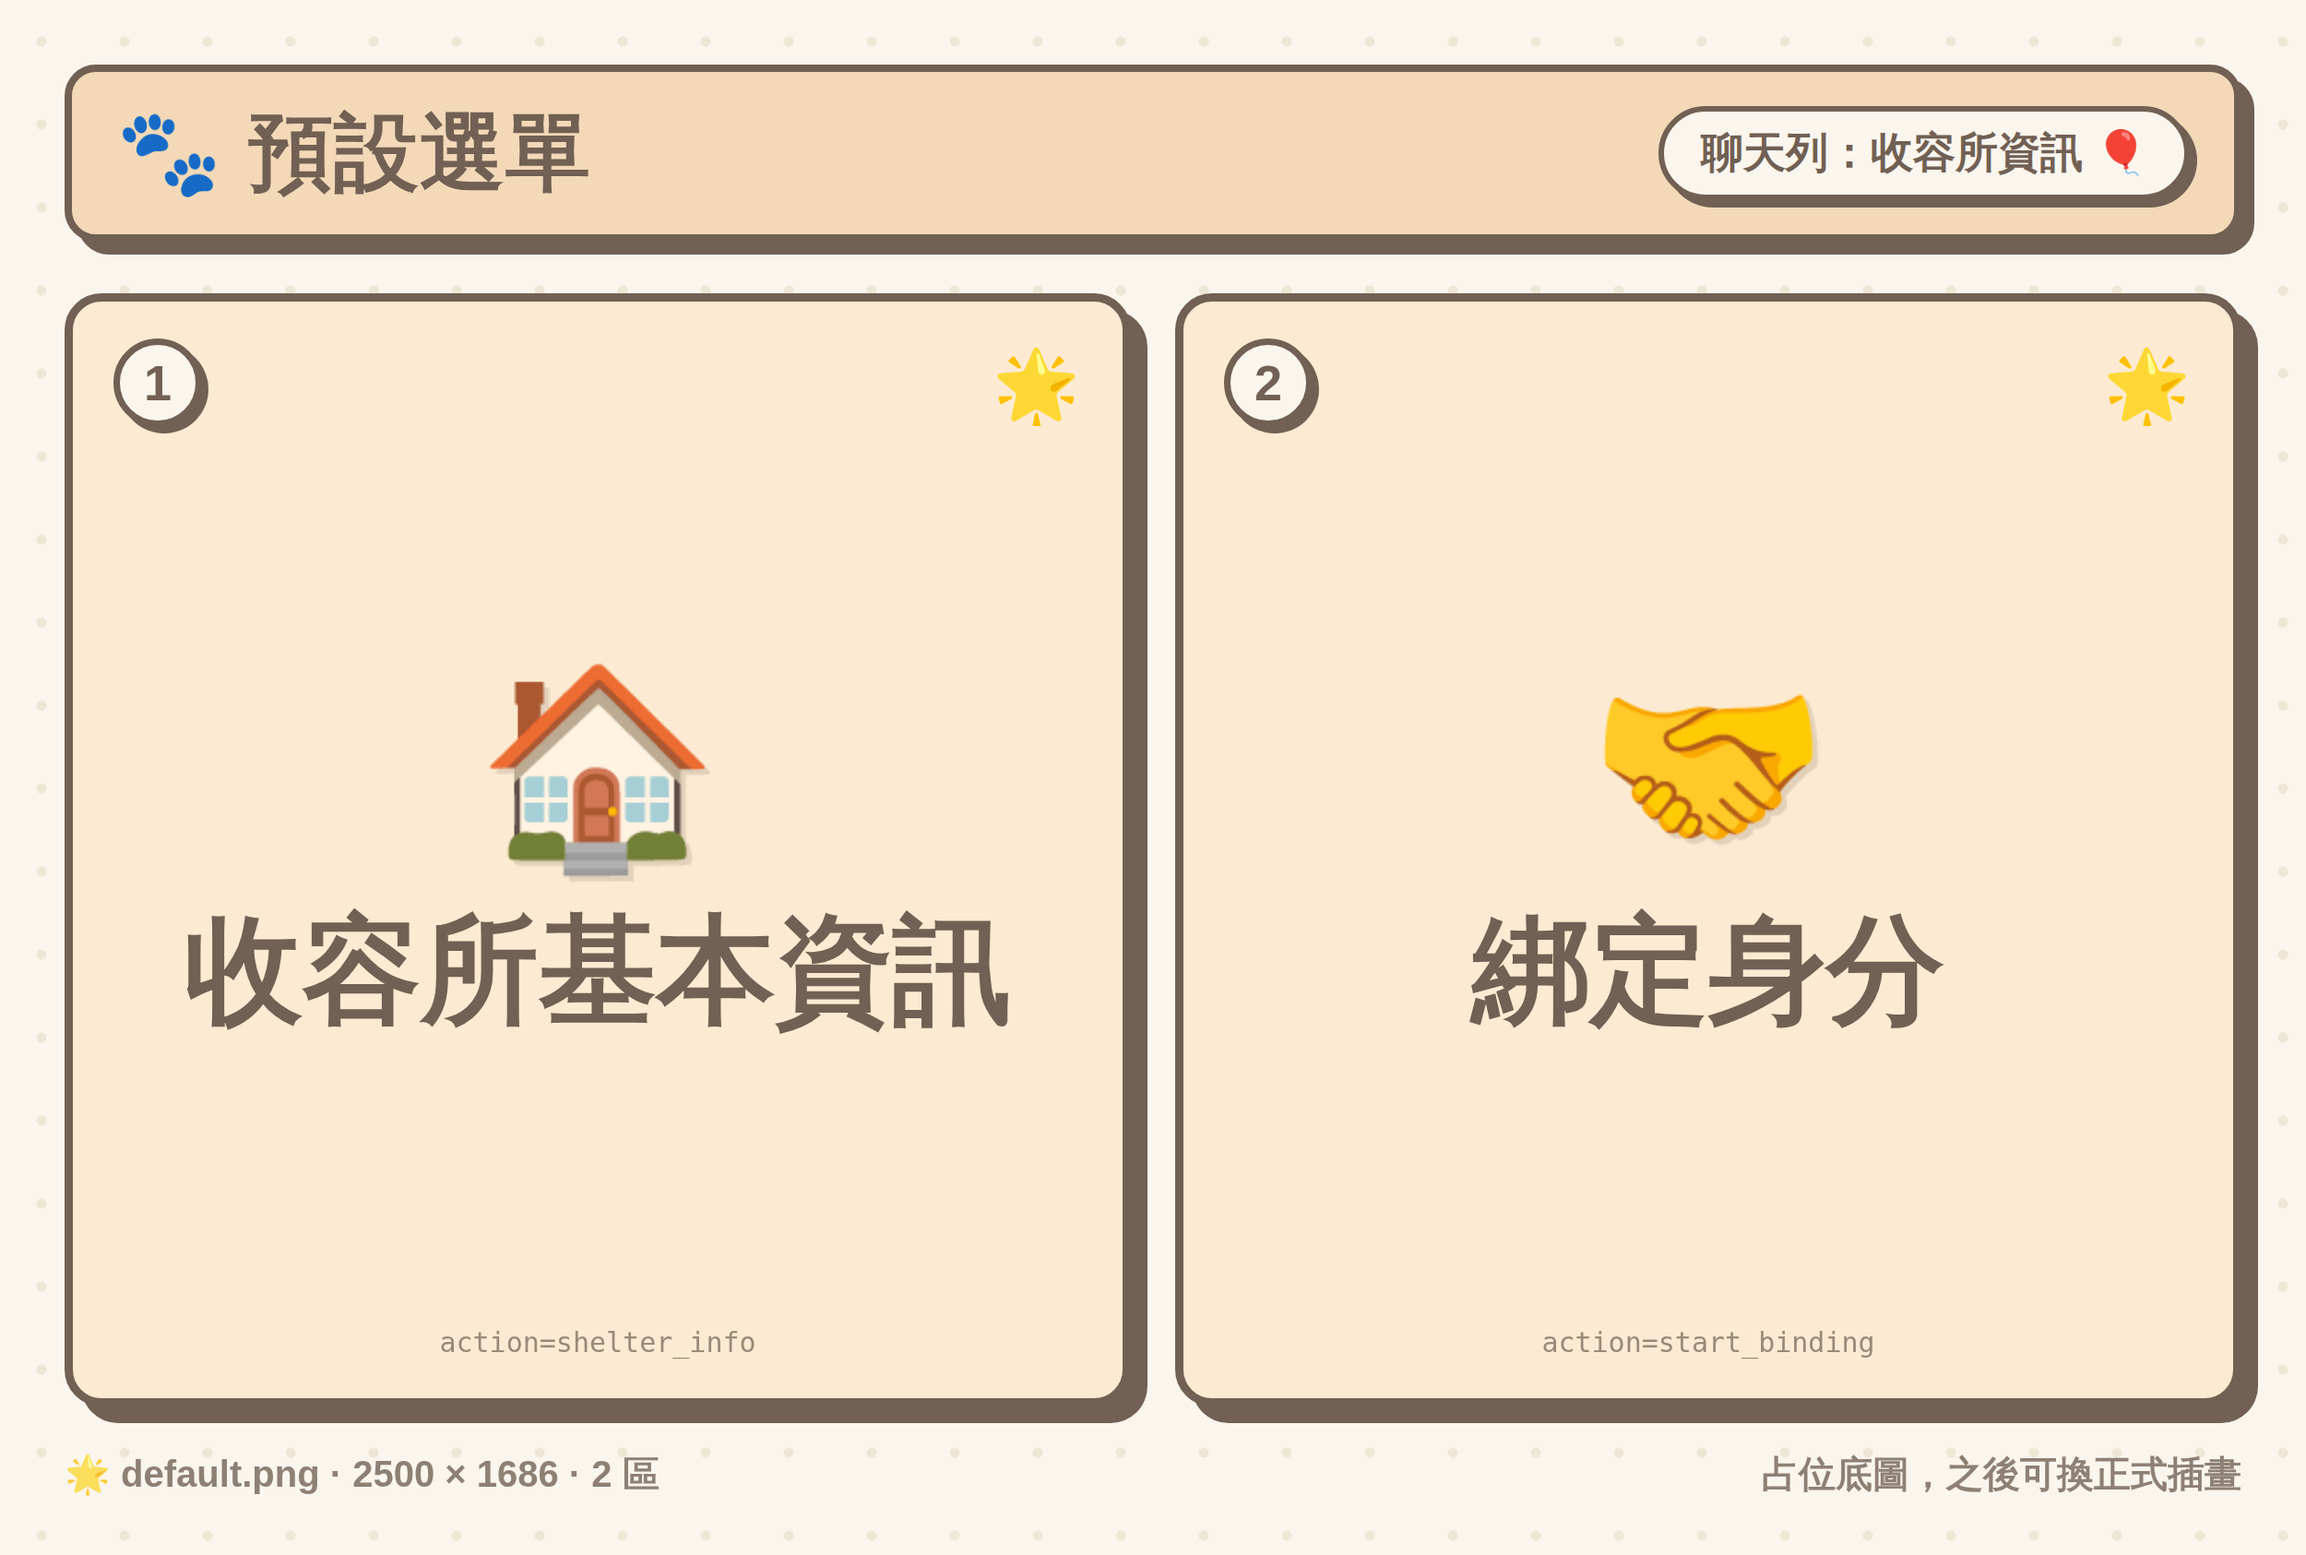
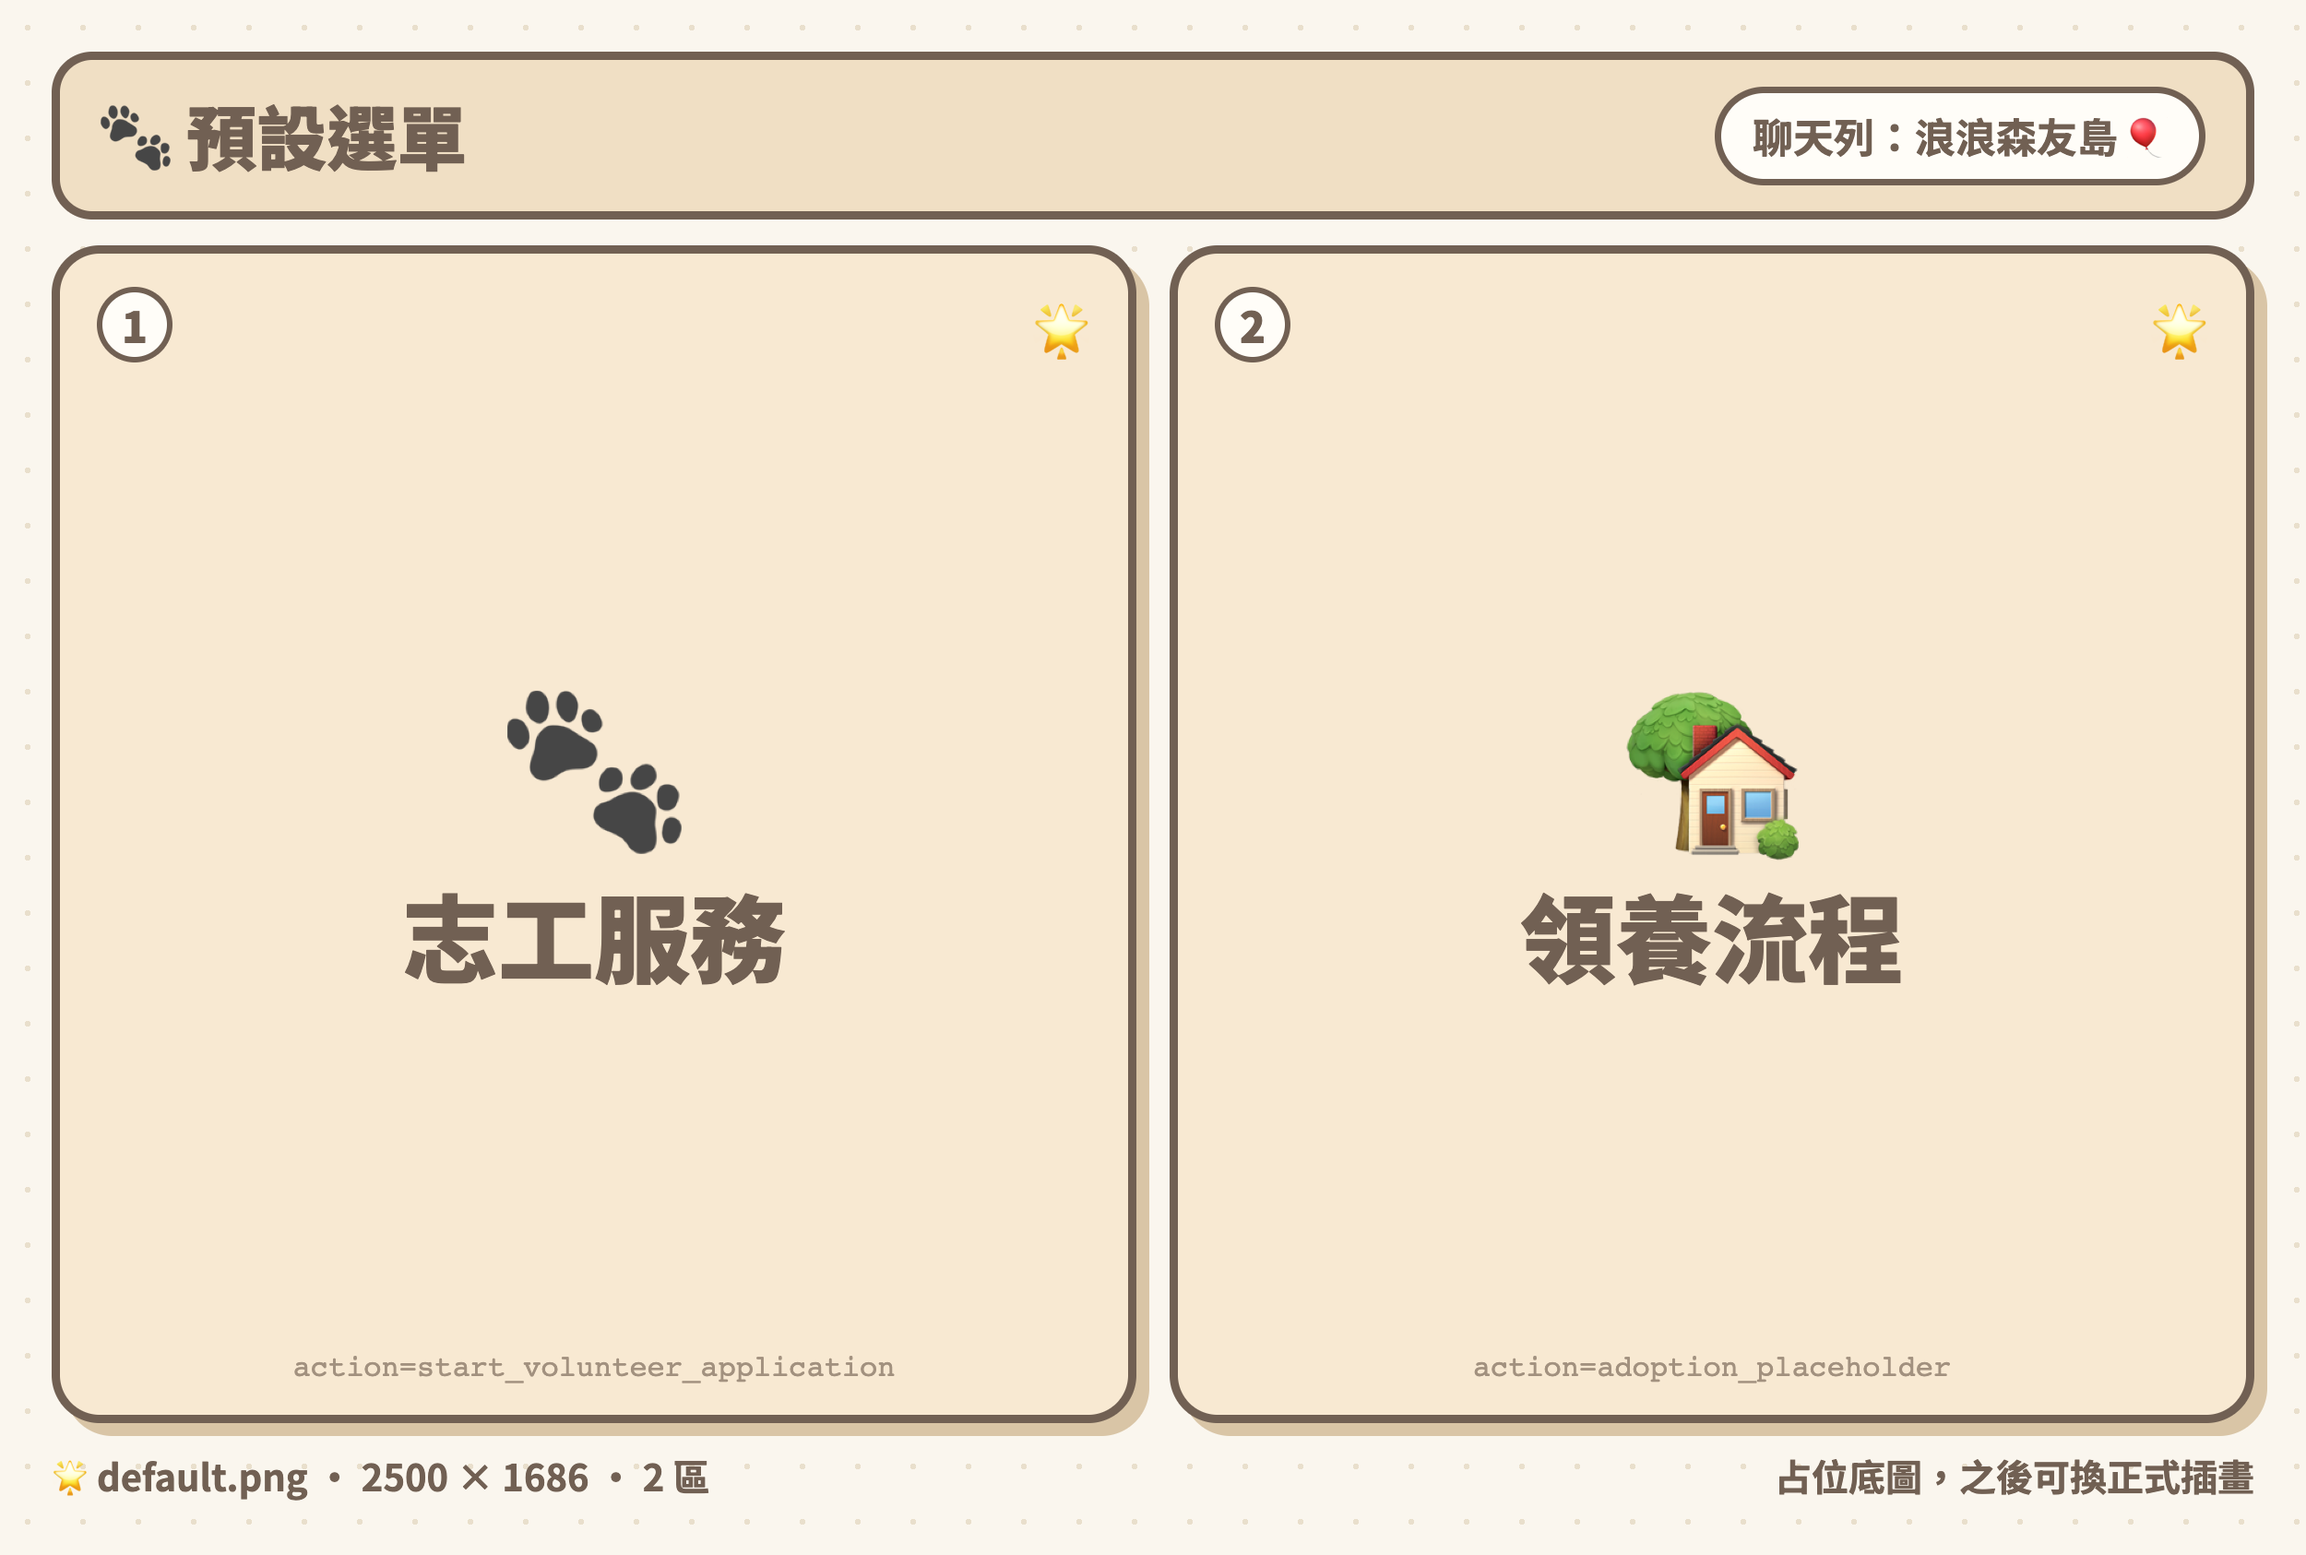
feat(line): 預設選單改為志工服務／領養流程兩條入口
一進官方帳號就分流，不再需要先「綁定身分」再做事：

- 志工服務 → action=start_volunteer_application
  沿用既有處理，回覆志工報名 LIFF 連結。綁定在報名時由
  volunteer_access_service 隱含建立（get_or_create_line_applicant），
  使用者無感。
- 領養流程 → action=adoption_placeholder
  沿用既有占位回覆，內容待實作。

兩個 action 都已由 _handle_public_volunteer_application_entry 處理，
不需要新增後端邏輯。舊的 shelter_info / start_binding 處理保留，
讓還停在舊選單的使用者不會掉進照護回報流程。

新增 scripts/rich_menu_images/render.mjs：底圖產生工具原本沒有進版控，
改選單只能手工重畫。現在由 yaml 產生，改完跑一次即可。
PLAYWRIGHT_CHROMIUM_PATH 可指向既有 Chromium，免得為了產圖再下載一份。

選單覆蓋測試改為直接讀 yaml 比對，不再寫死 action 清單 —— 原本的寫法
會在改選單時失效。

Changed region(s): [[0.0, 0.0308, 0.9984, 0.987], [0.0624, 0.4318, 0.4368, 0.6785], [0.624, 0.4318, 0.8424, 0.6785]]

diff --git a/tests/unit/test_line_role_menu_actions.py b/tests/unit/test_line_role_menu_actions.py
@@ -1,9 +1,18 @@
 from __future__ import annotations
 
+from pathlib import Path
+
 import pytest
 from services.api.app.api import line_webhook
 from services.api.app.application.line_menu_actions import MENU_PLACEHOLDER_ACTIONS
 from services.api.app.infrastructure.line.mock_adapter import MockLineAdapter
+
+# 這些 action 由 webhook 自行處理，不在 MENU_PLACEHOLDER_ACTIONS 裡。
+WEBHOOK_HANDLED_ACTIONS = {
+    "start_binding",
+    "start_volunteer_application",
+    "adoption_placeholder",
+}
 
 
 def _postback_event(data: str) -> dict:
@@ -51,13 +60,31 @@ async def test_non_postback_events_are_ignored() -> None:
     assert line.replies == []
 
 
-def test_default_menu_actions_are_all_wired() -> None:
-    """default 選單是所有加好友的人第一個看到的，兩顆按鈕都必須有處理。"""
+@pytest.mark.parametrize(
+    "path", sorted(Path("infra/local").glob("line-rich-menu-*.yaml")), ids=lambda p: p.stem
+)
+def test_every_configured_menu_action_has_a_handler(path: Path) -> None:
+    """選單項目沒接處理者的話，postback 會掉進照護回報流程回「缺少回報草稿識別」。
+
+    寫死清單會在改選單時失效，所以直接讀 yaml 比對。
+    """
     import yaml
 
-    document = yaml.safe_load(open("infra/local/line-rich-menu-default.yaml", encoding="utf-8"))
+    document = yaml.safe_load(path.read_text(encoding="utf-8"))
+    for item in document["actions"]:
+        action = item["data"].split("action=", 1)[1].split("&")[0]
+        assert action in MENU_PLACEHOLDER_ACTIONS or action in WEBHOOK_HANDLED_ACTIONS, (
+            f"{path.name} 的 {action} 沒有任何處理者"
+        )
+
+
+def test_default_menu_offers_volunteer_and_adoption_entries() -> None:
+    """一進來就分成志工／領養兩條路；綁定不是獨立按鈕（報名時會隱含建立）。"""
+    import yaml
+
+    document = yaml.safe_load(
+        Path("infra/local/line-rich-menu-default.yaml").read_text(encoding="utf-8")
+    )
     actions = [item["data"].split("action=", 1)[1] for item in document["actions"]]
 
-    assert actions == ["shelter_info", "start_binding"]
-    for action in actions:
-        assert action in MENU_PLACEHOLDER_ACTIONS or action == "start_binding"
+    assert actions == ["start_volunteer_application", "adoption_placeholder"]
